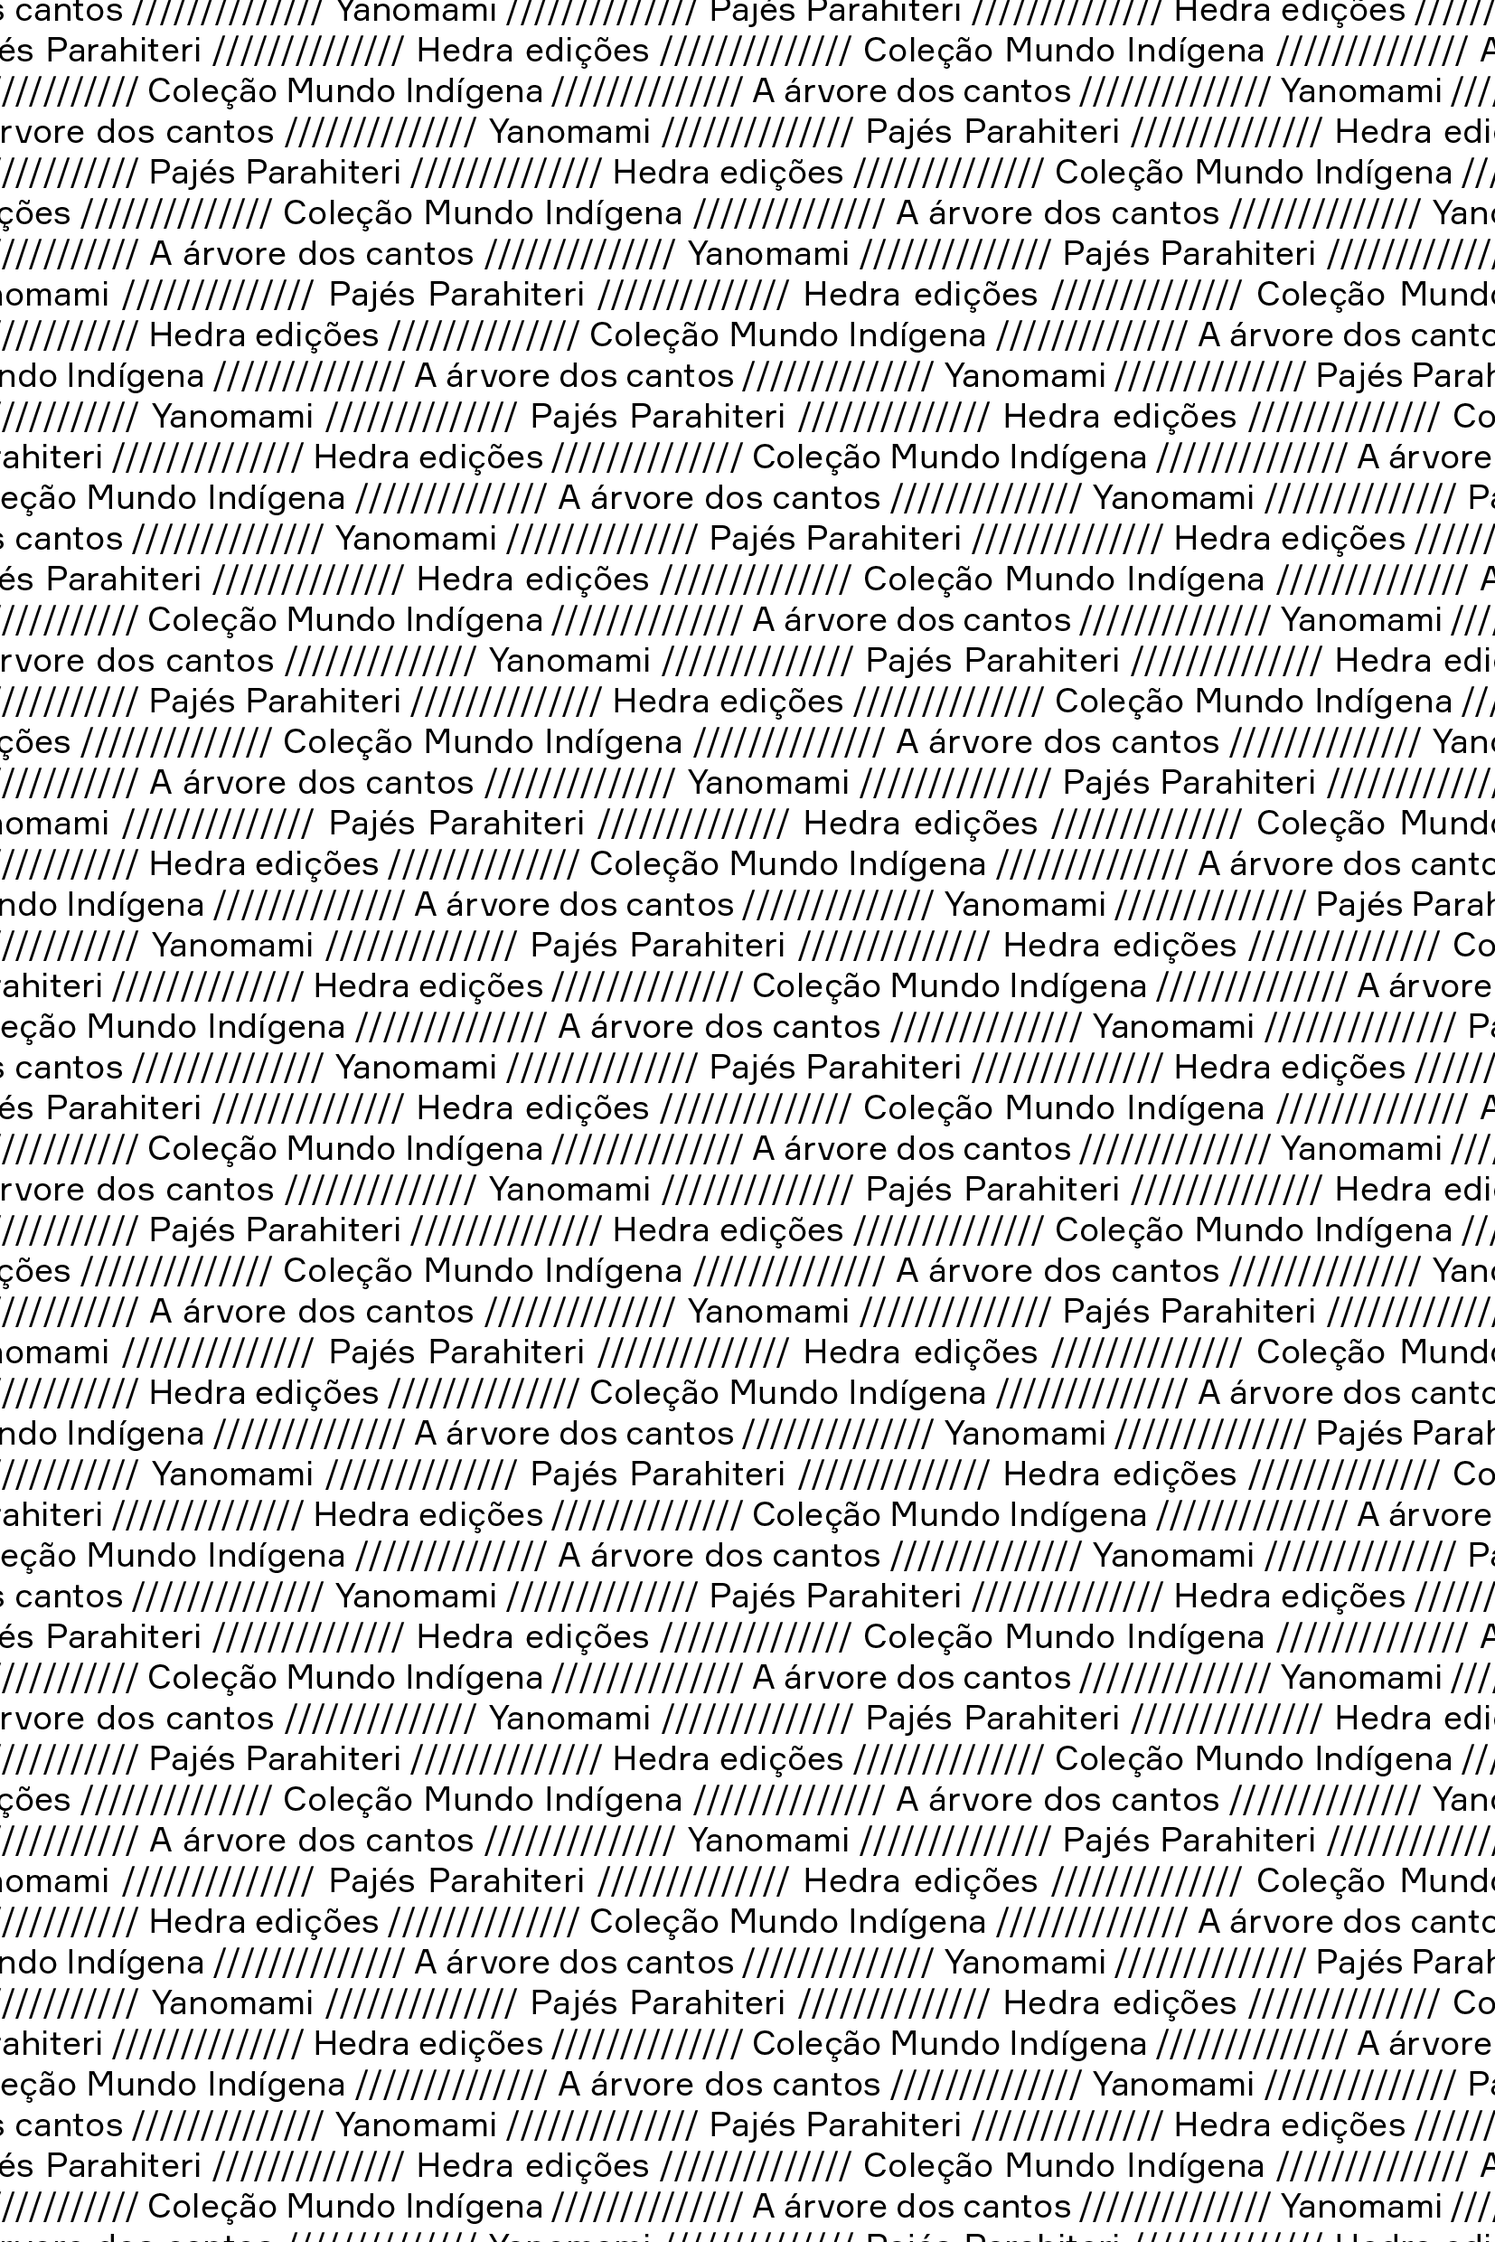
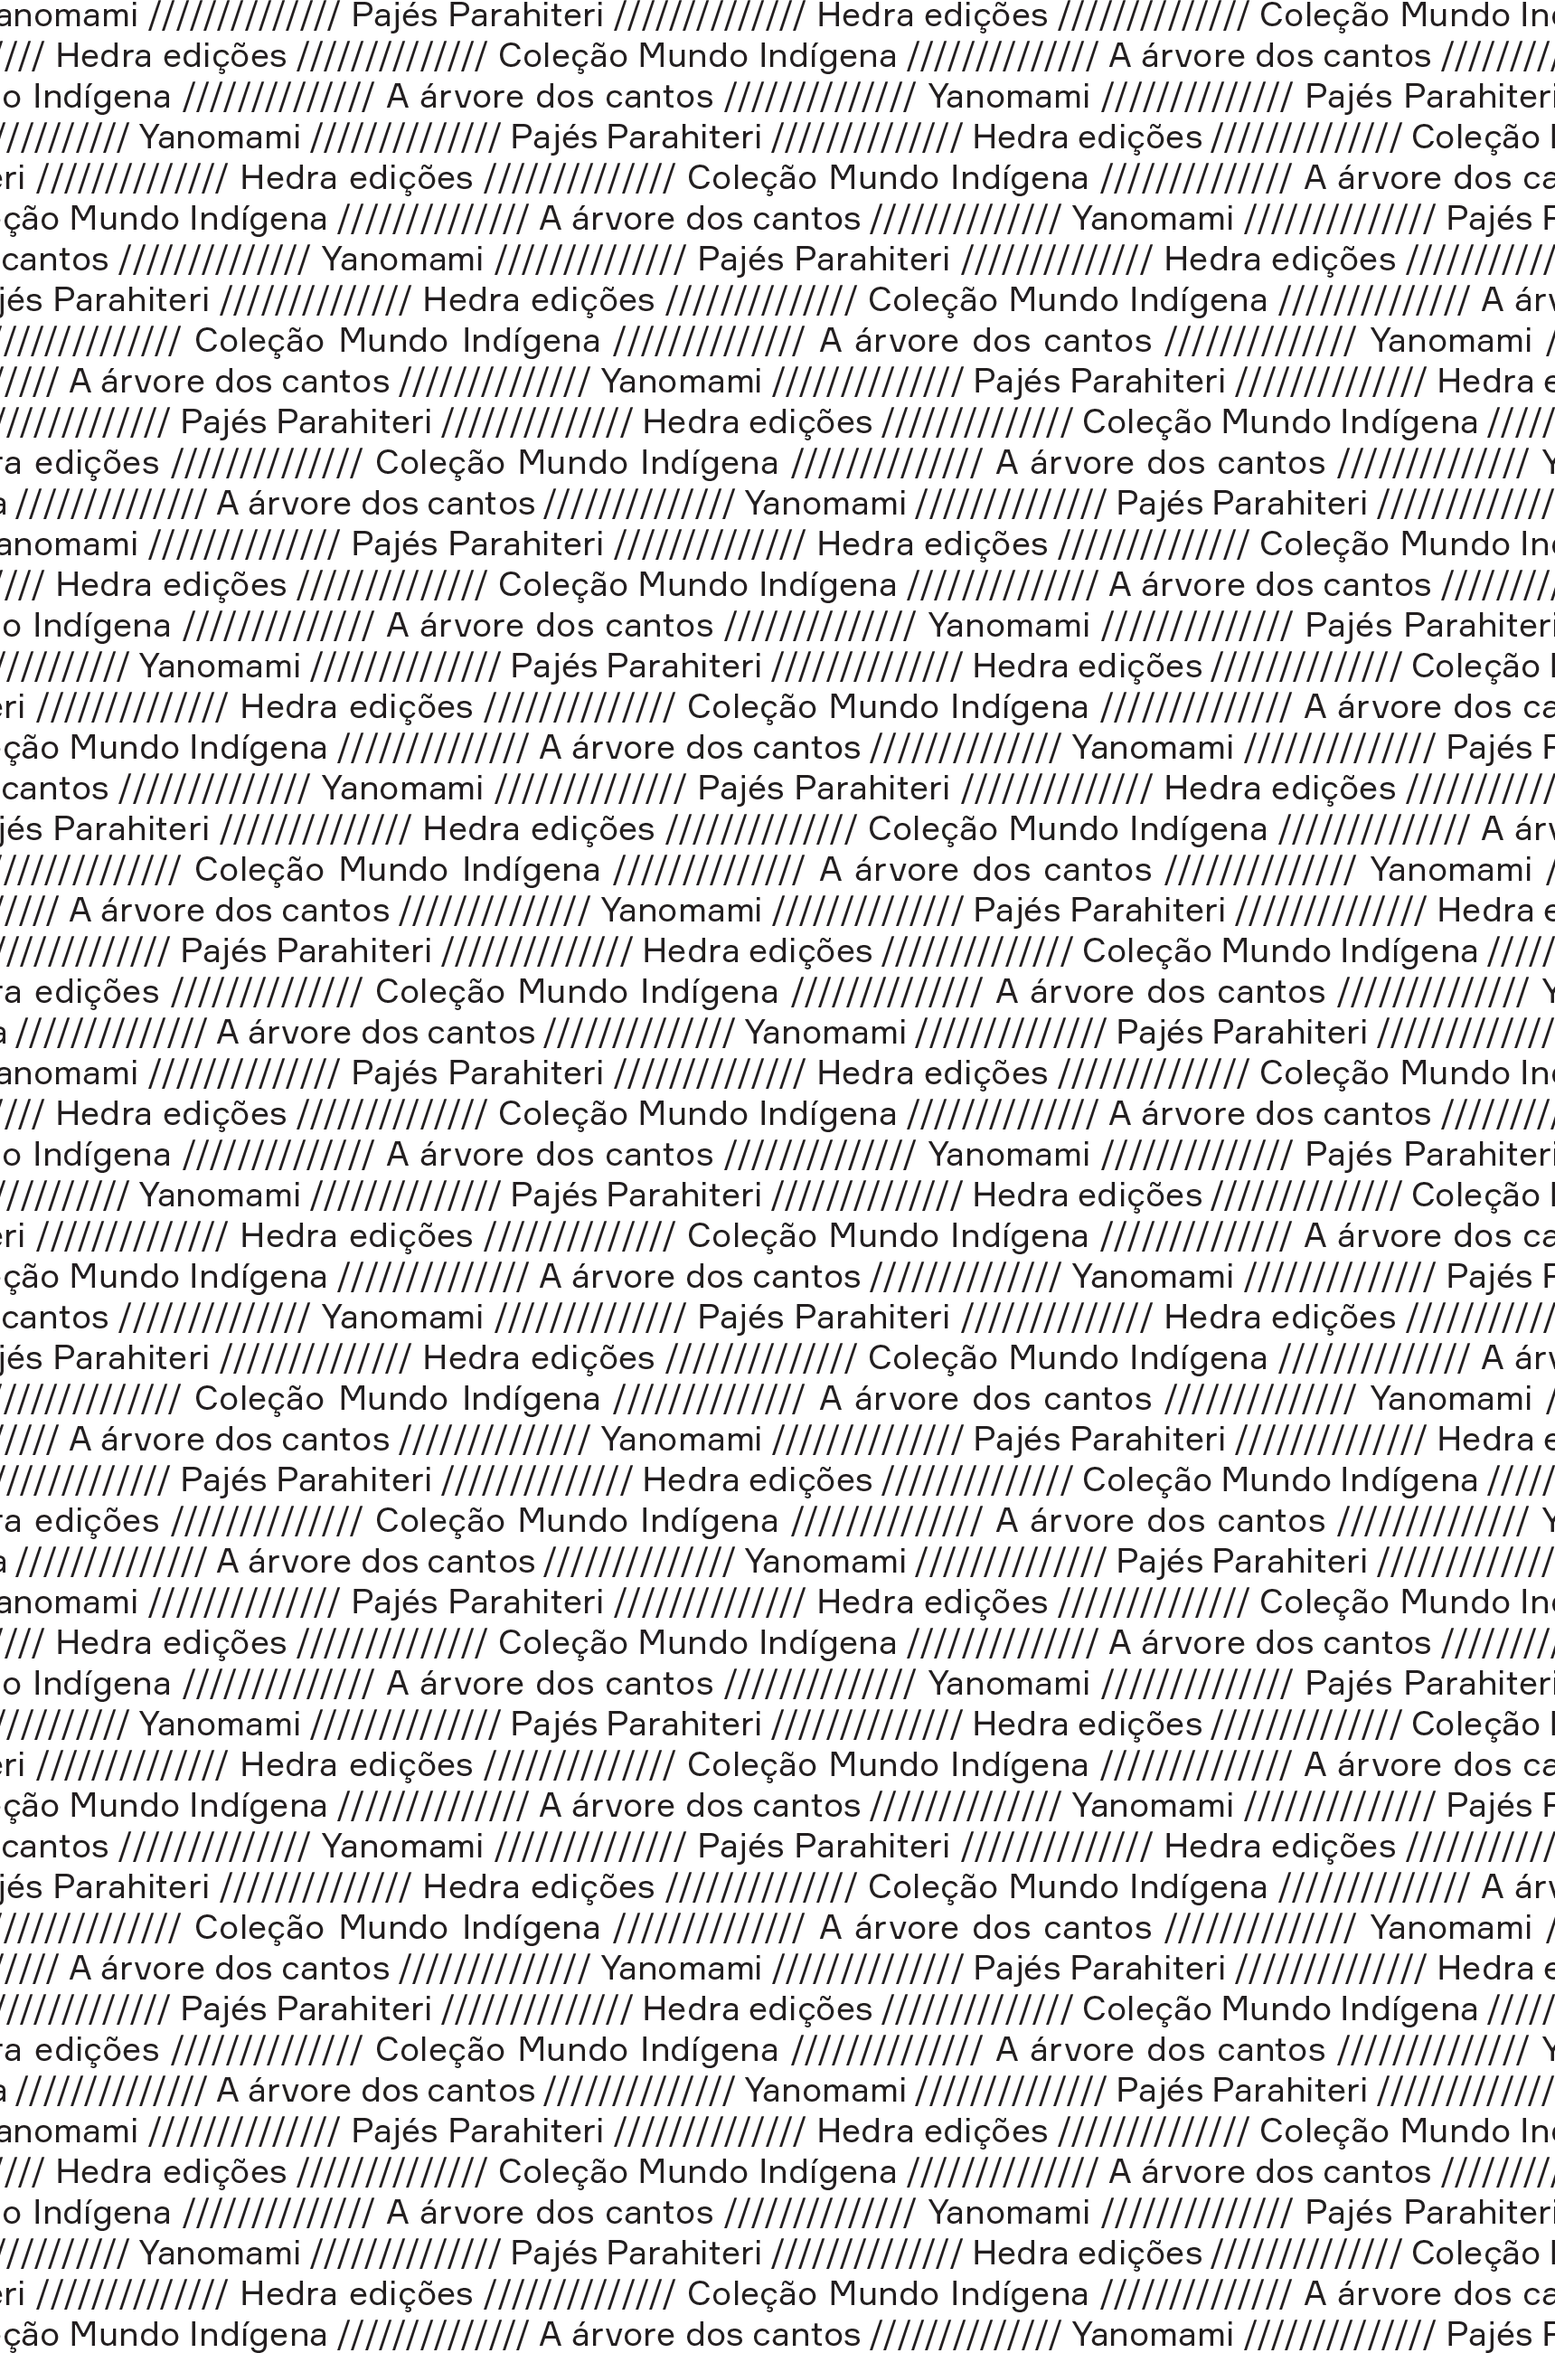
posicionando front

diff --git a/1-fronte.tex b/1-fronte.tex
@@ -1,14 +1,12 @@
 \thispagestyle{empty}
 
-\begin{textblock*}{2.625in}(0pt,0pt)%
-\vspace*{-2cm}
-\hspace*{-2.65cm}\includegraphics[width=138mm]{./ABERTURA.png}  
+\begin{textblock*}{-2in}(0pt,0pt)%
+\vspace*{-1.8cm}
+\hspace*{-3cm}\includegraphics[width=142mm]{./ABERTURA.png}  
 \end{textblock*}
 
 \pagebreak
 \blankpage
-
-\thispagestyle{empty}
 
 %\blankpage
 
